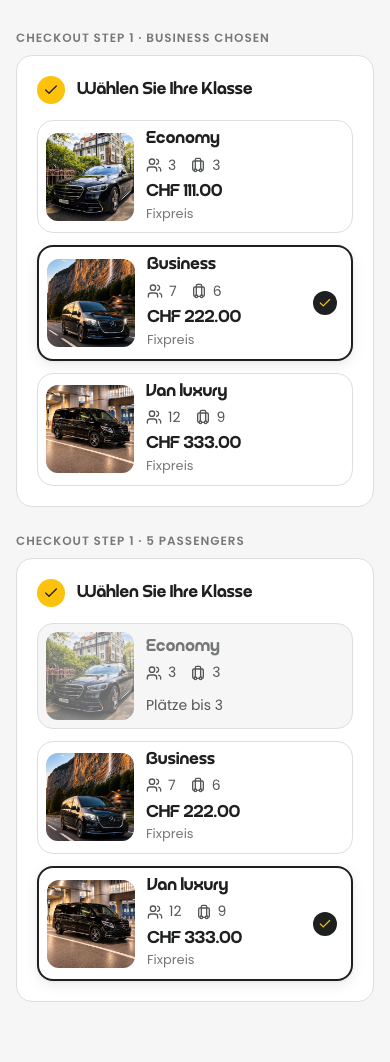
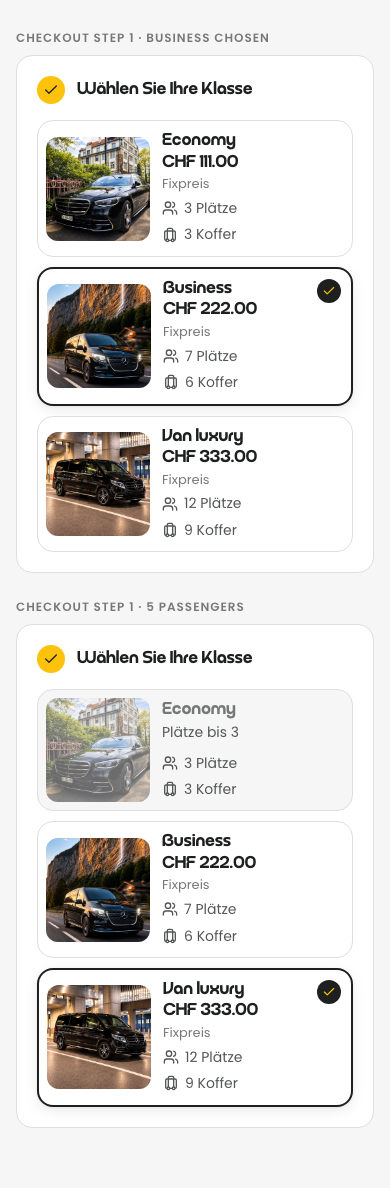
docs(quick-260930-cps): layout E second pass — square photo never stretches, checkout cards follow the desktop card

Changed region(s): [[0.0308, 0.0311, 0.9231, 0.4661], [0.0923, 0.4972, 0.9231, 0.9322], [0.0308, 0.4972, 0.0615, 0.5282]]

diff --git a/.planning/quick/260930-cps-class-photo-small/design/options.html b/.planning/quick/260930-cps-class-photo-small/design/options.html
@@ -108,16 +108,16 @@ body{margin:0;font-family:var(--vt-font-body);color:var(--vt-text-primary);backg
 .E .home-only .btn{inline-size:100%;block-size:44px;background:transparent;color:var(--vt-text-primary);border:1px solid var(--vt-border-subtle);margin-block-start:6px}
 .E .home-only .btn.dis{opacity:.42}
 .E .home-only .sk.b{inline-size:100%;block-size:44px;border-radius:999px;margin-block-start:6px}
-.E .co-only .grid{grid-template-columns:minmax(0,1fr)}
-.E .co-only .card{grid-template-columns:96px minmax(0,1fr) auto;align-items:center;gap:var(--vt-space-4);padding:8px 52px 8px 8px;padding-inline:8px 52px}
-.E .co-only .shot{inline-size:96px;flex:none}
-.E .co-only .pr{text-align:end}
-.E .co-only .chk{inset-block-start:50%;transform:translateY(-50%);inset-inline-end:14px}
-@media (max-width:1240px){.E .shot{inline-size:120px;flex-basis:120px}}
+.E .side .price{align-self:flex-start}
+.E .home-only .shot{align-self:center}
+.E .co-only .grid{grid-template-columns:minmax(0,1fr);gap:10px}
+.E .co-only .card{display:flex;align-items:stretch;gap:12px;padding:8px}
+.E .co-only .shot{inline-size:120px;flex:0 0 120px;align-self:center}
+.E .co-only .side{display:flex;flex-direction:column;gap:2px;min-width:0;flex:1 1 auto;padding-block:2px;padding-inline-end:36px}
+.E .co-only .chk{inset-block-start:10px;inset-inline-end:10px}
+@media (max-width:1240px){.E .home-only .shot{inline-size:120px;flex-basis:120px}}
 @media (max-width:700px){
-  .E .co-only .card{grid-template-columns:88px minmax(0,1fr);grid-template-areas:"shot body" "shot pr";gap:2px 12px;padding:8px 44px 8px 8px;padding-inline:8px 44px}
-  .E .co-only .shot{grid-area:shot;inline-size:88px}
-  .E .body{grid-area:body}.E .co-only .pr{grid-area:pr;text-align:start}
+  .E .co-only .shot{inline-size:104px;flex-basis:104px}
 }
 
 /* narrow: every option becomes a row with the photo at the side */
@@ -161,7 +161,7 @@ const CLS = [
 const ic = (n) => `<span class="ic" style="--u:url(/assets/icons/${n}.svg)"></span>`;
 const shot = (c) => `<div class="shot"><img src="ph/${c.slug}.jpg" alt="${c.name}"></div>`;
 const body = (c) => `<div class="body"><div class="name">${c.name}</div><div class="meta"><span>${ic('users')}${c.pax}</span><span>${ic('luggage')}${c.bags}</span></div></div>`;
-const CAP = { en: ['seats', 'bags'], de: ['Plätze', 'Gepäckstücke'], ar: ['مقاعد', 'حقائب'] }[lang];
+const CAP = { en: ['seats', 'bags'], de: ['Plätze', 'Koffer'], ar: ['مقاعد', 'حقائب'] }[lang];
 function homeCardE(c, st) {
   const price = st === 'priced' ? `<div class="price">${c.p}</div>` : st === 'loading' ? `<span class="sk"></span>` : `<div class="note">${T.fill}</div>`;
   const btn = st === 'loading' ? `<span class="sk b"></span>` : `<span class="btn ${st === 'idle' ? 'dis' : ''}">${T.sel} ${ic('arrow-right')}</span>`;
@@ -179,6 +179,7 @@ function coCard(c, selected, off) {
   const pr = off ? `<div class="note">${T.seats}</div>` : `<div class="price">${c.p}.00</div><div class="small">${T.fixed}</div>`;
   const chk = selected ? `<span class="chk">${ic('check')}</span>` : '';
   const cl = `card ${selected ? 'sel' : ''} ${off ? 'off' : ''}`;
+  if (opt === 'E') return `<div class="${cl}">${shot(c)}<div class="side"><div class="name">${c.name}</div>${off ? `<div class="note">${T.seats}</div>` : `<div class="price">${c.p}.00</div><div class="small">${T.fixed}</div>`}<div class="caps"><span>${ic('users')}${c.pax} ${CAP[0]}</span><span>${ic('luggage')}${c.bags} ${CAP[1]}</span></div></div>${chk}</div>`;
   if (opt === 'C') return `<div class="${cl}">${shot(c)}<div class="side">${body(c)}<div>${pr}</div></div>${chk}</div>`;
   return `<div class="${cl}">${shot(c)}${body(c)}<div class="pr">${pr}</div>${chk}</div>`;
 }
